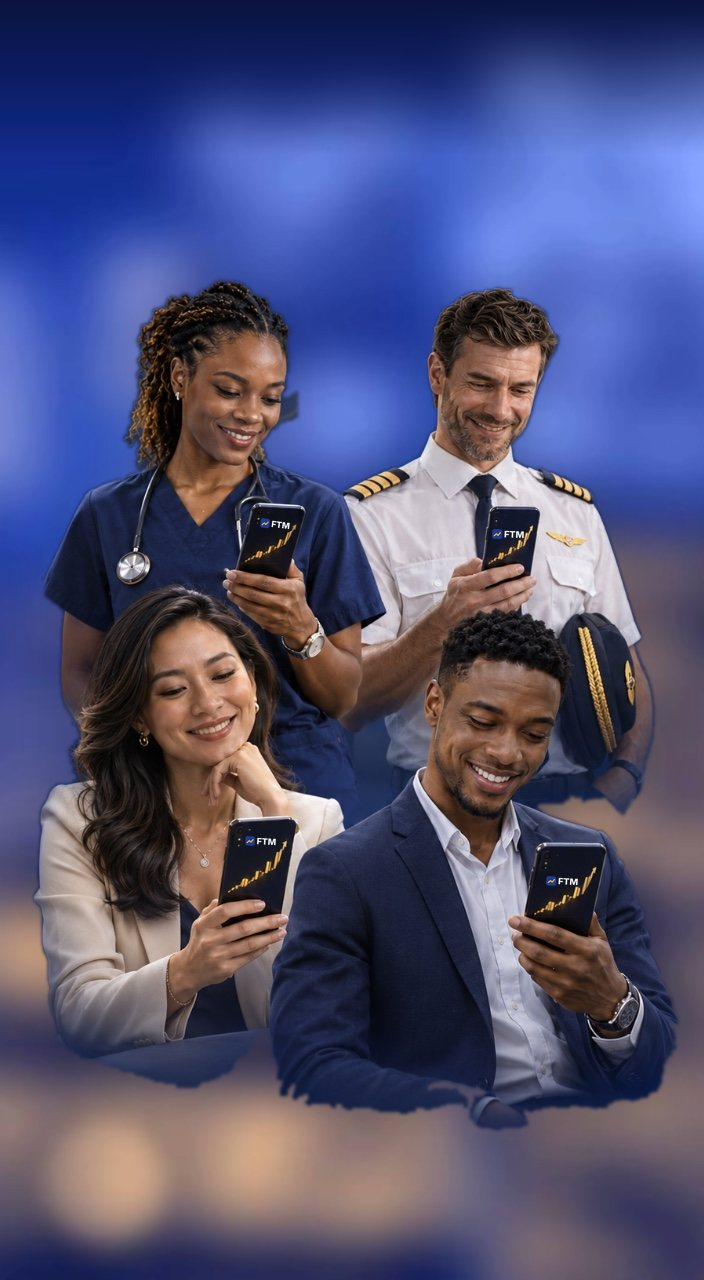
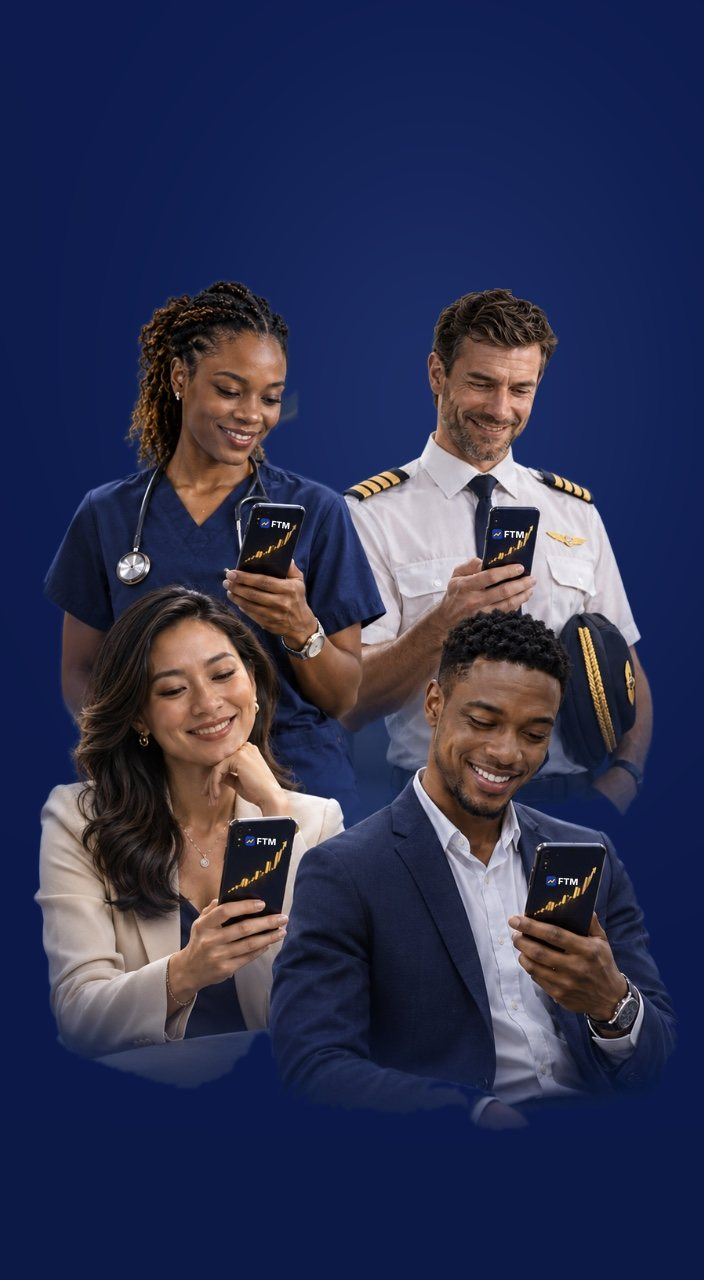
Hero: remove the city background and the grid squares; plain navy behind the people
Claude-Session: https://claude.ai/code/session_015ASeiR4KkcEsuYPMxYb7QY

diff --git a/index.html b/index.html
@@ -1798,6 +1798,7 @@ html,body{max-width:100%;overflow-x:hidden}@supports (overflow:clip){html,body{o
   }
   @media (max-width:820px) and (prefers-reduced-motion:reduce){.hero-mini .hm-line{animation:none;stroke-dashoffset:0}}
   @media (max-width:820px){.hero-fx i:nth-child(6){left:70%!important}.hero-fx i:nth-child(7){left:78%!important}}
+  .hero-grid{display:none!important}
 </style>
 <script>window.va=window.va||function(){(window.vaq=window.vaq||[]).push(arguments)};</script>
 <script defer src="/_vercel/insights/script.js"></script>
@@ -2000,7 +2001,7 @@ html,body{max-width:100%;overflow-x:hidden}@supports (overflow:clip){html,body{o
 <main id="top">
 
 <section class="hero">
-  <div class="hero-bg"></div><picture class="hero-photo" aria-hidden="true"><source srcset="/hero-people.webp?v=4" type="image/webp"><img src="/hero-people.jpg?v=4" alt="" width="704" height="1280" fetchpriority="high" decoding="async"></picture><svg class="hero-people" viewBox="0 0 700 1000" preserveAspectRatio="xMidYMax slice" aria-hidden="true"><defs><radialGradient id="glow"><stop offset="0" stop-color="#fff" stop-opacity=".55"/><stop offset="1" stop-color="#fff" stop-opacity="0"/></radialGradient><linearGradient id="fade" x1="0" x2="1"><stop offset=".55" stop-color="#fff"/><stop offset="1" stop-color="#fff" stop-opacity="0"/></linearGradient><mask id="fadeMask"><rect width="700" height="1000" fill="url(#fade)"/></mask></defs><g mask="url(#fadeMask)"><g transform="translate(70 640) scale(1.0)"><path d="M-70 0 C-70 -70 -40 -95 0 -95 C40 -95 70 -70 70 0 Z" fill="#3B82F6"/><rect x="-14" y="-118" width="28" height="30" rx="8" fill="#5C3A21"/><ellipse cx="0" cy="-140" rx="34" ry="38" fill="#5C3A21"/><path d="M-34 -150 C-34 -190 34 -190 34 -150 C20 -168 -20 -168 -34 -150Z" fill="#d9b26f"/><path d="M-12 -126 Q0 -116 12 -126" stroke="#3a1f10" stroke-width="3" fill="none" stroke-linecap="round"/><path d="M-60 -40 Q-40 -80 -10 -70" stroke="#5C3A21" stroke-width="16" fill="none" stroke-linecap="round"/><path d="M60 -40 Q40 -80 10 -70" stroke="#5C3A21" stroke-width="16" fill="none" stroke-linecap="round"/><circle cx="0" cy="-80" r="60" fill="url(#glow)"/><rect x="-16" y="-96" width="32" height="50" rx="6" fill="#0B1440" stroke="#F5F3EE" stroke-width="2"/><rect x="-12" y="-90" width="24" height="38" rx="3" fill="#cfe3ff"/></g><g transform="translate(120 780) scale(1.1)"><path d="M-70 0 C-70 -70 -40 -95 0 -95 C40 -95 70 -70 70 0 Z" fill="#D4AF37"/><rect x="-14" y="-118" width="28" height="30" rx="8" fill="#8D5524"/><ellipse cx="0" cy="-140" rx="34" ry="38" fill="#8D5524"/><path d="M-34 -150 C-34 -190 34 -190 34 -150 C20 -168 -20 -168 -34 -150Z" fill="#d9b26f"/><path d="M-12 -126 Q0 -116 12 -126" stroke="#3a1f10" stroke-width="3" fill="none" stroke-linecap="round"/><path d="M-60 -40 Q-40 -80 -10 -70" stroke="#8D5524" stroke-width="16" fill="none" stroke-linecap="round"/><path d="M60 -40 Q40 -80 10 -70" stroke="#8D5524" stroke-width="16" fill="none" stroke-linecap="round"/><circle cx="0" cy="-80" r="60" fill="url(#glow)"/><rect x="-16" y="-96" width="32" height="50" rx="6" fill="#0B1440" stroke="#F5F3EE" stroke-width="2"/><rect x="-12" y="-90" width="24" height="38" rx="3" fill="#cfe3ff"/></g><g transform="translate(30 900) scale(1.3)"><path d="M-70 0 C-70 -70 -40 -95 0 -95 C40 -95 70 -70 70 0 Z" fill="#60A5FA"/><rect x="-14" y="-118" width="28" height="30" rx="8" fill="#8D5524"/><ellipse cx="0" cy="-140" rx="34" ry="38" fill="#8D5524"/><path d="M-36 -150 C-36 -185 36 -185 36 -150 L40 -100 L30 -100 L28 -140 L-28 -140 L-30 -100 L-40 -100Z" fill="#111"/><path d="M-12 -126 Q0 -116 12 -126" stroke="#3a1f10" stroke-width="3" fill="none" stroke-linecap="round"/><path d="M-60 -40 Q-40 -80 -10 -70" stroke="#8D5524" stroke-width="16" fill="none" stroke-linecap="round"/><path d="M60 -40 Q40 -80 10 -70" stroke="#8D5524" stroke-width="16" fill="none" stroke-linecap="round"/><circle cx="0" cy="-80" r="60" fill="url(#glow)"/><rect x="-16" y="-96" width="32" height="50" rx="6" fill="#0B1440" stroke="#F5F3EE" stroke-width="2"/><rect x="-12" y="-90" width="24" height="38" rx="3" fill="#cfe3ff"/></g><g transform="translate(240 950) scale(1.1)"><path d="M-70 0 C-70 -70 -40 -95 0 -95 C40 -95 70 -70 70 0 Z" fill="#60A5FA"/><rect x="-14" y="-118" width="28" height="30" rx="8" fill="#F1C27D"/><ellipse cx="0" cy="-140" rx="34" ry="38" fill="#F1C27D"/><path d="M-34 -150 C-34 -190 34 -190 34 -150 C20 -168 -20 -168 -34 -150Z" fill="#111"/><path d="M-12 -126 Q0 -116 12 -126" stroke="#3a1f10" stroke-width="3" fill="none" stroke-linecap="round"/><path d="M-60 -40 Q-40 -80 -10 -70" stroke="#F1C27D" stroke-width="16" fill="none" stroke-linecap="round"/><path d="M60 -40 Q40 -80 10 -70" stroke="#F1C27D" stroke-width="16" fill="none" stroke-linecap="round"/><circle cx="0" cy="-80" r="60" fill="url(#glow)"/><rect x="-16" y="-96" width="32" height="50" rx="6" fill="#0B1440" stroke="#F5F3EE" stroke-width="2"/><rect x="-12" y="-90" width="24" height="38" rx="3" fill="#cfe3ff"/></g><g class="algo"><line x1="531" y1="366" x2="538" y2="311" stroke="#F5F3EE" stroke-width="1.2"/><line x1="531" y1="366" x2="562" y2="323" stroke="#F5F3EE" stroke-width="1.2"/><line x1="531" y1="366" x2="622" y2="394" stroke="#F5F3EE" stroke-width="1.2"/><line x1="531" y1="366" x2="528" y2="235" stroke="#F5F3EE" stroke-width="1.2"/><line x1="531" y1="366" x2="575" y2="494" stroke="#F5F3EE" stroke-width="1.2"/><line x1="531" y1="366" x2="655" y2="404" stroke="#F5F3EE" stroke-width="1.2"/><line x1="531" y1="366" x2="502" y2="311" stroke="#F5F3EE" stroke-width="1.2"/><line x1="531" y1="366" x2="634" y2="458" stroke="#F5F3EE" stroke-width="1.2"/><line x1="531" y1="366" x2="615" y2="412" stroke="#F5F3EE" stroke-width="1.2"/><line x1="538" y1="311" x2="600" y2="177" stroke="#F5F3EE" stroke-width="1.2"/><line x1="538" y1="311" x2="562" y2="323" stroke="#F5F3EE" stroke-width="1.2"/><line x1="538" y1="311" x2="622" y2="394" stroke="#F5F3EE" stroke-width="1.2"/><line x1="538" y1="311" x2="528" y2="235" stroke="#F5F3EE" stroke-width="1.2"/><line x1="538" y1="311" x2="655" y2="404" stroke="#F5F3EE" stroke-width="1.2"/><line x1="538" y1="311" x2="502" y2="311" stroke="#F5F3EE" stroke-width="1.2"/><line x1="538" y1="311" x2="615" y2="412" stroke="#F5F3EE" stroke-width="1.2"/><line x1="560" y1="517" x2="622" y2="394" stroke="#F5F3EE" stroke-width="1.2"/><line x1="560" y1="517" x2="575" y2="494" stroke="#F5F3EE" stroke-width="1.2"/><line x1="560" y1="517" x2="655" y2="404" stroke="#F5F3EE" stroke-width="1.2"/><line x1="560" y1="517" x2="634" y2="458" stroke="#F5F3EE" stroke-width="1.2"/><line x1="560" y1="517" x2="615" y2="412" stroke="#F5F3EE" stroke-width="1.2"/><line x1="600" y1="177" x2="528" y2="235" stroke="#F5F3EE" stroke-width="1.2"/><line x1="600" y1="177" x2="570" y2="112" stroke="#F5F3EE" stroke-width="1.2"/><line x1="600" y1="177" x2="607" y2="95" stroke="#F5F3EE" stroke-width="1.2"/><line x1="394" y1="491" x2="321" y2="384" stroke="#F5F3EE" stroke-width="1.2"/><line x1="394" y1="491" x2="380" y2="399" stroke="#F5F3EE" stroke-width="1.2"/><line x1="394" y1="491" x2="307" y2="505" stroke="#F5F3EE" stroke-width="1.2"/><line x1="562" y1="323" x2="622" y2="394" stroke="#F5F3EE" stroke-width="1.2"/><line x1="562" y1="323" x2="528" y2="235" stroke="#F5F3EE" stroke-width="1.2"/><line x1="562" y1="323" x2="655" y2="404" stroke="#F5F3EE" stroke-width="1.2"/><line x1="562" y1="323" x2="502" y2="311" stroke="#F5F3EE" stroke-width="1.2"/><line x1="562" y1="323" x2="615" y2="412" stroke="#F5F3EE" stroke-width="1.2"/><line x1="622" y1="394" x2="575" y2="494" stroke="#F5F3EE" stroke-width="1.2"/><line x1="622" y1="394" x2="655" y2="404" stroke="#F5F3EE" stroke-width="1.2"/><line x1="622" y1="394" x2="502" y2="311" stroke="#F5F3EE" stroke-width="1.2"/><line x1="622" y1="394" x2="634" y2="458" stroke="#F5F3EE" stroke-width="1.2"/><line x1="622" y1="394" x2="615" y2="412" stroke="#F5F3EE" stroke-width="1.2"/><line x1="395" y1="128" x2="372" y2="126" stroke="#F5F3EE" stroke-width="1.2"/><line x1="395" y1="128" x2="330" y2="98" stroke="#F5F3EE" stroke-width="1.2"/><line x1="395" y1="128" x2="397" y2="203" stroke="#F5F3EE" stroke-width="1.2"/><line x1="528" y1="235" x2="502" y2="311" stroke="#F5F3EE" stroke-width="1.2"/><line x1="528" y1="235" x2="570" y2="112" stroke="#F5F3EE" stroke-width="1.2"/><line x1="528" y1="235" x2="397" y2="203" stroke="#F5F3EE" stroke-width="1.2"/><line x1="372" y1="126" x2="330" y2="98" stroke="#F5F3EE" stroke-width="1.2"/><line x1="372" y1="126" x2="397" y2="203" stroke="#F5F3EE" stroke-width="1.2"/><line x1="575" y1="494" x2="655" y2="404" stroke="#F5F3EE" stroke-width="1.2"/><line x1="575" y1="494" x2="634" y2="458" stroke="#F5F3EE" stroke-width="1.2"/><line x1="575" y1="494" x2="615" y2="412" stroke="#F5F3EE" stroke-width="1.2"/><line x1="655" y1="404" x2="634" y2="458" stroke="#F5F3EE" stroke-width="1.2"/><line x1="655" y1="404" x2="615" y2="412" stroke="#F5F3EE" stroke-width="1.2"/><line x1="321" y1="384" x2="380" y2="399" stroke="#F5F3EE" stroke-width="1.2"/><line x1="321" y1="384" x2="307" y2="505" stroke="#F5F3EE" stroke-width="1.2"/><line x1="634" y1="458" x2="615" y2="412" stroke="#F5F3EE" stroke-width="1.2"/><line x1="380" y1="399" x2="307" y2="505" stroke="#F5F3EE" stroke-width="1.2"/><line x1="570" y1="112" x2="607" y2="95" stroke="#F5F3EE" stroke-width="1.2"/><line x1="330" y1="98" x2="397" y2="203" stroke="#F5F3EE" stroke-width="1.2"/><circle cx="531" cy="366" r="5" fill="#60A5FA"/><circle cx="538" cy="311" r="5" fill="#F5F3EE"/><circle cx="560" cy="517" r="7" fill="#F5F3EE"/><circle cx="600" cy="177" r="7" fill="#60A5FA"/><circle cx="394" cy="491" r="5" fill="#D4AF37"/><circle cx="562" cy="323" r="7" fill="#D4AF37"/><circle cx="622" cy="394" r="5" fill="#60A5FA"/><circle cx="395" cy="128" r="5" fill="#D4AF37"/><circle cx="528" cy="235" r="7" fill="#60A5FA"/><circle cx="372" cy="126" r="5" fill="#F5F3EE"/><circle cx="575" cy="494" r="7" fill="#60A5FA"/><circle cx="655" cy="404" r="4" fill="#D4AF37"/><circle cx="321" cy="384" r="7" fill="#D4AF37"/><circle cx="502" cy="311" r="5" fill="#D4AF37"/><circle cx="634" cy="458" r="5" fill="#2fa66b"/><circle cx="615" cy="412" r="4" fill="#D4AF37"/><circle cx="380" cy="399" r="7" fill="#D4AF37"/><circle cx="307" cy="505" r="4" fill="#F5F3EE"/><circle cx="570" cy="112" r="4" fill="#2fa66b"/><circle cx="330" cy="98" r="5" fill="#2fa66b"/><circle cx="397" cy="203" r="5" fill="#D4AF37"/><circle cx="607" cy="95" r="7" fill="#F5F3EE"/><text x="380" y="560" font-family="ui-monospace,Menlo,monospace" font-size="15" fill="#D4AF37" opacity="0.9">for setup in setups:</text><text x="380" y="586" font-family="ui-monospace,Menlo,monospace" font-size="15" fill="#F5F3EE" opacity="0.7">def execute(order):</text><text x="340" y="612" font-family="ui-monospace,Menlo,monospace" font-size="15" fill="#F5F3EE" opacity="0.5">def execute(order):</text><text x="300" y="638" font-family="ui-monospace,Menlo,monospace" font-size="15" fill="#F5F3EE" opacity="0.7">await broker.send()</text><text x="340" y="664" font-family="ui-monospace,Menlo,monospace" font-size="15" fill="#60A5FA" opacity="0.5">tp = entry + atr*3</text><text x="420" y="690" font-family="ui-monospace,Menlo,monospace" font-size="15" fill="#60A5FA" opacity="0.9">while market.open:</text><text x="420" y="716" font-family="ui-monospace,Menlo,monospace" font-size="15" fill="#60A5FA" opacity="0.7">def execute(order):</text><text x="420" y="742" font-family="ui-monospace,Menlo,monospace" font-size="15" fill="#D4AF37" opacity="0.9">if price &gt; ema200:</text><text x="380" y="768" font-family="ui-monospace,Menlo,monospace" font-size="15" fill="#60A5FA" opacity="0.7">if price &gt; ema200:</text><text x="340" y="794" font-family="ui-monospace,Menlo,monospace" font-size="15" fill="#F5F3EE" opacity="0.7">def execute(order):</text><text x="300" y="820" font-family="ui-monospace,Menlo,monospace" font-size="15" fill="#F5F3EE" opacity="0.9">if rsi &lt; 30 and trend:</text><text x="380" y="846" font-family="ui-monospace,Menlo,monospace" font-size="15" fill="#F5F3EE" opacity="0.5">drawdown &lt; 15%</text><text x="380" y="872" font-family="ui-monospace,Menlo,monospace" font-size="15" fill="#D4AF37" opacity="0.9">risk = 0.5%</text><text x="300" y="898" font-family="ui-monospace,Menlo,monospace" font-size="15" fill="#F5F3EE" opacity="0.5">01001101 01010100</text><text x="300" y="924" font-family="ui-monospace,Menlo,monospace" font-size="15" fill="#60A5FA" opacity="0.7">position.size = eq*r</text><text x="420" y="950" font-family="ui-monospace,Menlo,monospace" font-size="15" fill="#F5F3EE" opacity="0.5">await broker.send()</text><g stroke="#F5F3EE" stroke-width="1.5" fill="none"><rect x="560" y="560" width="110" height="34" rx="8"/><rect x="560" y="640" width="110" height="34" rx="8"/><rect x="560" y="720" width="110" height="34" rx="8"/><path d="M615 594v46M615 674v46" marker-end="none"/><path d="M609 634l6 6 6-6M609 714l6 6 6-6"/></g><g font-family="Inter,sans-serif" font-size="12" fill="#F5F3EE" text-anchor="middle"><text x="615" y="582">scan markets</text><text x="615" y="662">check rules</text><text x="615" y="742">execute</text></g><rect x="310" y="916" width="8" height="36" fill="#2fa66b"/><rect x="336" y="904" width="8" height="37" fill="#2fa66b"/><rect x="362" y="889" width="8" height="30" fill="#E5323E"/><rect x="388" y="894" width="8" height="39" fill="#2fa66b"/><rect x="414" y="892" width="8" height="33" fill="#2fa66b"/><rect x="440" y="920" width="8" height="33" fill="#2fa66b"/><rect x="466" y="940" width="8" height="31" fill="#E5323E"/><rect x="492" y="910" width="8" height="38" fill="#2fa66b"/><rect x="518" y="883" width="8" height="23" fill="#2fa66b"/><rect x="544" y="882" width="8" height="13" fill="#E5323E"/><rect x="570" y="927" width="8" height="17" fill="#E5323E"/><rect x="596" y="906" width="8" height="18" fill="#E5323E"/><rect x="622" y="913" width="8" height="19" fill="#2fa66b"/><rect x="648" y="926" width="8" height="39" fill="#2fa66b"/></g></g></svg>
+  <div class="hero-bg"></div><picture class="hero-photo" aria-hidden="true"><source srcset="/hero-people.webp?v=5" type="image/webp"><img src="/hero-people.jpg?v=5" alt="" width="704" height="1280" fetchpriority="high" decoding="async"></picture><svg class="hero-people" viewBox="0 0 700 1000" preserveAspectRatio="xMidYMax slice" aria-hidden="true"><defs><radialGradient id="glow"><stop offset="0" stop-color="#fff" stop-opacity=".55"/><stop offset="1" stop-color="#fff" stop-opacity="0"/></radialGradient><linearGradient id="fade" x1="0" x2="1"><stop offset=".55" stop-color="#fff"/><stop offset="1" stop-color="#fff" stop-opacity="0"/></linearGradient><mask id="fadeMask"><rect width="700" height="1000" fill="url(#fade)"/></mask></defs><g mask="url(#fadeMask)"><g transform="translate(70 640) scale(1.0)"><path d="M-70 0 C-70 -70 -40 -95 0 -95 C40 -95 70 -70 70 0 Z" fill="#3B82F6"/><rect x="-14" y="-118" width="28" height="30" rx="8" fill="#5C3A21"/><ellipse cx="0" cy="-140" rx="34" ry="38" fill="#5C3A21"/><path d="M-34 -150 C-34 -190 34 -190 34 -150 C20 -168 -20 -168 -34 -150Z" fill="#d9b26f"/><path d="M-12 -126 Q0 -116 12 -126" stroke="#3a1f10" stroke-width="3" fill="none" stroke-linecap="round"/><path d="M-60 -40 Q-40 -80 -10 -70" stroke="#5C3A21" stroke-width="16" fill="none" stroke-linecap="round"/><path d="M60 -40 Q40 -80 10 -70" stroke="#5C3A21" stroke-width="16" fill="none" stroke-linecap="round"/><circle cx="0" cy="-80" r="60" fill="url(#glow)"/><rect x="-16" y="-96" width="32" height="50" rx="6" fill="#0B1440" stroke="#F5F3EE" stroke-width="2"/><rect x="-12" y="-90" width="24" height="38" rx="3" fill="#cfe3ff"/></g><g transform="translate(120 780) scale(1.1)"><path d="M-70 0 C-70 -70 -40 -95 0 -95 C40 -95 70 -70 70 0 Z" fill="#D4AF37"/><rect x="-14" y="-118" width="28" height="30" rx="8" fill="#8D5524"/><ellipse cx="0" cy="-140" rx="34" ry="38" fill="#8D5524"/><path d="M-34 -150 C-34 -190 34 -190 34 -150 C20 -168 -20 -168 -34 -150Z" fill="#d9b26f"/><path d="M-12 -126 Q0 -116 12 -126" stroke="#3a1f10" stroke-width="3" fill="none" stroke-linecap="round"/><path d="M-60 -40 Q-40 -80 -10 -70" stroke="#8D5524" stroke-width="16" fill="none" stroke-linecap="round"/><path d="M60 -40 Q40 -80 10 -70" stroke="#8D5524" stroke-width="16" fill="none" stroke-linecap="round"/><circle cx="0" cy="-80" r="60" fill="url(#glow)"/><rect x="-16" y="-96" width="32" height="50" rx="6" fill="#0B1440" stroke="#F5F3EE" stroke-width="2"/><rect x="-12" y="-90" width="24" height="38" rx="3" fill="#cfe3ff"/></g><g transform="translate(30 900) scale(1.3)"><path d="M-70 0 C-70 -70 -40 -95 0 -95 C40 -95 70 -70 70 0 Z" fill="#60A5FA"/><rect x="-14" y="-118" width="28" height="30" rx="8" fill="#8D5524"/><ellipse cx="0" cy="-140" rx="34" ry="38" fill="#8D5524"/><path d="M-36 -150 C-36 -185 36 -185 36 -150 L40 -100 L30 -100 L28 -140 L-28 -140 L-30 -100 L-40 -100Z" fill="#111"/><path d="M-12 -126 Q0 -116 12 -126" stroke="#3a1f10" stroke-width="3" fill="none" stroke-linecap="round"/><path d="M-60 -40 Q-40 -80 -10 -70" stroke="#8D5524" stroke-width="16" fill="none" stroke-linecap="round"/><path d="M60 -40 Q40 -80 10 -70" stroke="#8D5524" stroke-width="16" fill="none" stroke-linecap="round"/><circle cx="0" cy="-80" r="60" fill="url(#glow)"/><rect x="-16" y="-96" width="32" height="50" rx="6" fill="#0B1440" stroke="#F5F3EE" stroke-width="2"/><rect x="-12" y="-90" width="24" height="38" rx="3" fill="#cfe3ff"/></g><g transform="translate(240 950) scale(1.1)"><path d="M-70 0 C-70 -70 -40 -95 0 -95 C40 -95 70 -70 70 0 Z" fill="#60A5FA"/><rect x="-14" y="-118" width="28" height="30" rx="8" fill="#F1C27D"/><ellipse cx="0" cy="-140" rx="34" ry="38" fill="#F1C27D"/><path d="M-34 -150 C-34 -190 34 -190 34 -150 C20 -168 -20 -168 -34 -150Z" fill="#111"/><path d="M-12 -126 Q0 -116 12 -126" stroke="#3a1f10" stroke-width="3" fill="none" stroke-linecap="round"/><path d="M-60 -40 Q-40 -80 -10 -70" stroke="#F1C27D" stroke-width="16" fill="none" stroke-linecap="round"/><path d="M60 -40 Q40 -80 10 -70" stroke="#F1C27D" stroke-width="16" fill="none" stroke-linecap="round"/><circle cx="0" cy="-80" r="60" fill="url(#glow)"/><rect x="-16" y="-96" width="32" height="50" rx="6" fill="#0B1440" stroke="#F5F3EE" stroke-width="2"/><rect x="-12" y="-90" width="24" height="38" rx="3" fill="#cfe3ff"/></g><g class="algo"><line x1="531" y1="366" x2="538" y2="311" stroke="#F5F3EE" stroke-width="1.2"/><line x1="531" y1="366" x2="562" y2="323" stroke="#F5F3EE" stroke-width="1.2"/><line x1="531" y1="366" x2="622" y2="394" stroke="#F5F3EE" stroke-width="1.2"/><line x1="531" y1="366" x2="528" y2="235" stroke="#F5F3EE" stroke-width="1.2"/><line x1="531" y1="366" x2="575" y2="494" stroke="#F5F3EE" stroke-width="1.2"/><line x1="531" y1="366" x2="655" y2="404" stroke="#F5F3EE" stroke-width="1.2"/><line x1="531" y1="366" x2="502" y2="311" stroke="#F5F3EE" stroke-width="1.2"/><line x1="531" y1="366" x2="634" y2="458" stroke="#F5F3EE" stroke-width="1.2"/><line x1="531" y1="366" x2="615" y2="412" stroke="#F5F3EE" stroke-width="1.2"/><line x1="538" y1="311" x2="600" y2="177" stroke="#F5F3EE" stroke-width="1.2"/><line x1="538" y1="311" x2="562" y2="323" stroke="#F5F3EE" stroke-width="1.2"/><line x1="538" y1="311" x2="622" y2="394" stroke="#F5F3EE" stroke-width="1.2"/><line x1="538" y1="311" x2="528" y2="235" stroke="#F5F3EE" stroke-width="1.2"/><line x1="538" y1="311" x2="655" y2="404" stroke="#F5F3EE" stroke-width="1.2"/><line x1="538" y1="311" x2="502" y2="311" stroke="#F5F3EE" stroke-width="1.2"/><line x1="538" y1="311" x2="615" y2="412" stroke="#F5F3EE" stroke-width="1.2"/><line x1="560" y1="517" x2="622" y2="394" stroke="#F5F3EE" stroke-width="1.2"/><line x1="560" y1="517" x2="575" y2="494" stroke="#F5F3EE" stroke-width="1.2"/><line x1="560" y1="517" x2="655" y2="404" stroke="#F5F3EE" stroke-width="1.2"/><line x1="560" y1="517" x2="634" y2="458" stroke="#F5F3EE" stroke-width="1.2"/><line x1="560" y1="517" x2="615" y2="412" stroke="#F5F3EE" stroke-width="1.2"/><line x1="600" y1="177" x2="528" y2="235" stroke="#F5F3EE" stroke-width="1.2"/><line x1="600" y1="177" x2="570" y2="112" stroke="#F5F3EE" stroke-width="1.2"/><line x1="600" y1="177" x2="607" y2="95" stroke="#F5F3EE" stroke-width="1.2"/><line x1="394" y1="491" x2="321" y2="384" stroke="#F5F3EE" stroke-width="1.2"/><line x1="394" y1="491" x2="380" y2="399" stroke="#F5F3EE" stroke-width="1.2"/><line x1="394" y1="491" x2="307" y2="505" stroke="#F5F3EE" stroke-width="1.2"/><line x1="562" y1="323" x2="622" y2="394" stroke="#F5F3EE" stroke-width="1.2"/><line x1="562" y1="323" x2="528" y2="235" stroke="#F5F3EE" stroke-width="1.2"/><line x1="562" y1="323" x2="655" y2="404" stroke="#F5F3EE" stroke-width="1.2"/><line x1="562" y1="323" x2="502" y2="311" stroke="#F5F3EE" stroke-width="1.2"/><line x1="562" y1="323" x2="615" y2="412" stroke="#F5F3EE" stroke-width="1.2"/><line x1="622" y1="394" x2="575" y2="494" stroke="#F5F3EE" stroke-width="1.2"/><line x1="622" y1="394" x2="655" y2="404" stroke="#F5F3EE" stroke-width="1.2"/><line x1="622" y1="394" x2="502" y2="311" stroke="#F5F3EE" stroke-width="1.2"/><line x1="622" y1="394" x2="634" y2="458" stroke="#F5F3EE" stroke-width="1.2"/><line x1="622" y1="394" x2="615" y2="412" stroke="#F5F3EE" stroke-width="1.2"/><line x1="395" y1="128" x2="372" y2="126" stroke="#F5F3EE" stroke-width="1.2"/><line x1="395" y1="128" x2="330" y2="98" stroke="#F5F3EE" stroke-width="1.2"/><line x1="395" y1="128" x2="397" y2="203" stroke="#F5F3EE" stroke-width="1.2"/><line x1="528" y1="235" x2="502" y2="311" stroke="#F5F3EE" stroke-width="1.2"/><line x1="528" y1="235" x2="570" y2="112" stroke="#F5F3EE" stroke-width="1.2"/><line x1="528" y1="235" x2="397" y2="203" stroke="#F5F3EE" stroke-width="1.2"/><line x1="372" y1="126" x2="330" y2="98" stroke="#F5F3EE" stroke-width="1.2"/><line x1="372" y1="126" x2="397" y2="203" stroke="#F5F3EE" stroke-width="1.2"/><line x1="575" y1="494" x2="655" y2="404" stroke="#F5F3EE" stroke-width="1.2"/><line x1="575" y1="494" x2="634" y2="458" stroke="#F5F3EE" stroke-width="1.2"/><line x1="575" y1="494" x2="615" y2="412" stroke="#F5F3EE" stroke-width="1.2"/><line x1="655" y1="404" x2="634" y2="458" stroke="#F5F3EE" stroke-width="1.2"/><line x1="655" y1="404" x2="615" y2="412" stroke="#F5F3EE" stroke-width="1.2"/><line x1="321" y1="384" x2="380" y2="399" stroke="#F5F3EE" stroke-width="1.2"/><line x1="321" y1="384" x2="307" y2="505" stroke="#F5F3EE" stroke-width="1.2"/><line x1="634" y1="458" x2="615" y2="412" stroke="#F5F3EE" stroke-width="1.2"/><line x1="380" y1="399" x2="307" y2="505" stroke="#F5F3EE" stroke-width="1.2"/><line x1="570" y1="112" x2="607" y2="95" stroke="#F5F3EE" stroke-width="1.2"/><line x1="330" y1="98" x2="397" y2="203" stroke="#F5F3EE" stroke-width="1.2"/><circle cx="531" cy="366" r="5" fill="#60A5FA"/><circle cx="538" cy="311" r="5" fill="#F5F3EE"/><circle cx="560" cy="517" r="7" fill="#F5F3EE"/><circle cx="600" cy="177" r="7" fill="#60A5FA"/><circle cx="394" cy="491" r="5" fill="#D4AF37"/><circle cx="562" cy="323" r="7" fill="#D4AF37"/><circle cx="622" cy="394" r="5" fill="#60A5FA"/><circle cx="395" cy="128" r="5" fill="#D4AF37"/><circle cx="528" cy="235" r="7" fill="#60A5FA"/><circle cx="372" cy="126" r="5" fill="#F5F3EE"/><circle cx="575" cy="494" r="7" fill="#60A5FA"/><circle cx="655" cy="404" r="4" fill="#D4AF37"/><circle cx="321" cy="384" r="7" fill="#D4AF37"/><circle cx="502" cy="311" r="5" fill="#D4AF37"/><circle cx="634" cy="458" r="5" fill="#2fa66b"/><circle cx="615" cy="412" r="4" fill="#D4AF37"/><circle cx="380" cy="399" r="7" fill="#D4AF37"/><circle cx="307" cy="505" r="4" fill="#F5F3EE"/><circle cx="570" cy="112" r="4" fill="#2fa66b"/><circle cx="330" cy="98" r="5" fill="#2fa66b"/><circle cx="397" cy="203" r="5" fill="#D4AF37"/><circle cx="607" cy="95" r="7" fill="#F5F3EE"/><text x="380" y="560" font-family="ui-monospace,Menlo,monospace" font-size="15" fill="#D4AF37" opacity="0.9">for setup in setups:</text><text x="380" y="586" font-family="ui-monospace,Menlo,monospace" font-size="15" fill="#F5F3EE" opacity="0.7">def execute(order):</text><text x="340" y="612" font-family="ui-monospace,Menlo,monospace" font-size="15" fill="#F5F3EE" opacity="0.5">def execute(order):</text><text x="300" y="638" font-family="ui-monospace,Menlo,monospace" font-size="15" fill="#F5F3EE" opacity="0.7">await broker.send()</text><text x="340" y="664" font-family="ui-monospace,Menlo,monospace" font-size="15" fill="#60A5FA" opacity="0.5">tp = entry + atr*3</text><text x="420" y="690" font-family="ui-monospace,Menlo,monospace" font-size="15" fill="#60A5FA" opacity="0.9">while market.open:</text><text x="420" y="716" font-family="ui-monospace,Menlo,monospace" font-size="15" fill="#60A5FA" opacity="0.7">def execute(order):</text><text x="420" y="742" font-family="ui-monospace,Menlo,monospace" font-size="15" fill="#D4AF37" opacity="0.9">if price &gt; ema200:</text><text x="380" y="768" font-family="ui-monospace,Menlo,monospace" font-size="15" fill="#60A5FA" opacity="0.7">if price &gt; ema200:</text><text x="340" y="794" font-family="ui-monospace,Menlo,monospace" font-size="15" fill="#F5F3EE" opacity="0.7">def execute(order):</text><text x="300" y="820" font-family="ui-monospace,Menlo,monospace" font-size="15" fill="#F5F3EE" opacity="0.9">if rsi &lt; 30 and trend:</text><text x="380" y="846" font-family="ui-monospace,Menlo,monospace" font-size="15" fill="#F5F3EE" opacity="0.5">drawdown &lt; 15%</text><text x="380" y="872" font-family="ui-monospace,Menlo,monospace" font-size="15" fill="#D4AF37" opacity="0.9">risk = 0.5%</text><text x="300" y="898" font-family="ui-monospace,Menlo,monospace" font-size="15" fill="#F5F3EE" opacity="0.5">01001101 01010100</text><text x="300" y="924" font-family="ui-monospace,Menlo,monospace" font-size="15" fill="#60A5FA" opacity="0.7">position.size = eq*r</text><text x="420" y="950" font-family="ui-monospace,Menlo,monospace" font-size="15" fill="#F5F3EE" opacity="0.5">await broker.send()</text><g stroke="#F5F3EE" stroke-width="1.5" fill="none"><rect x="560" y="560" width="110" height="34" rx="8"/><rect x="560" y="640" width="110" height="34" rx="8"/><rect x="560" y="720" width="110" height="34" rx="8"/><path d="M615 594v46M615 674v46" marker-end="none"/><path d="M609 634l6 6 6-6M609 714l6 6 6-6"/></g><g font-family="Inter,sans-serif" font-size="12" fill="#F5F3EE" text-anchor="middle"><text x="615" y="582">scan markets</text><text x="615" y="662">check rules</text><text x="615" y="742">execute</text></g><rect x="310" y="916" width="8" height="36" fill="#2fa66b"/><rect x="336" y="904" width="8" height="37" fill="#2fa66b"/><rect x="362" y="889" width="8" height="30" fill="#E5323E"/><rect x="388" y="894" width="8" height="39" fill="#2fa66b"/><rect x="414" y="892" width="8" height="33" fill="#2fa66b"/><rect x="440" y="920" width="8" height="33" fill="#2fa66b"/><rect x="466" y="940" width="8" height="31" fill="#E5323E"/><rect x="492" y="910" width="8" height="38" fill="#2fa66b"/><rect x="518" y="883" width="8" height="23" fill="#2fa66b"/><rect x="544" y="882" width="8" height="13" fill="#E5323E"/><rect x="570" y="927" width="8" height="17" fill="#E5323E"/><rect x="596" y="906" width="8" height="18" fill="#E5323E"/><rect x="622" y="913" width="8" height="19" fill="#2fa66b"/><rect x="648" y="926" width="8" height="39" fill="#2fa66b"/></g></g></svg>
 <div class="hero-grid"></div><div class="hero-fx" aria-hidden="true"><i style="left:8%;animation-delay:0s">XAUUSD ▲</i><i style="left:22%;animation-delay:-4s">BTCUSD ▲</i><i style="left:38%;animation-delay:-9s">+98,644%</i><i style="left:55%;animation-delay:-2s">NDX100 ▲</i><i style="left:68%;animation-delay:-12s">USDJPY ▲</i><i style="left:82%;animation-delay:-6s">BOOM1000 ▲</i><i style="left:92%;animation-delay:-14s">+3,658%</i></div>
   <svg class="hero-chart" viewBox="0 0 900 520" aria-hidden="true">
     <defs><linearGradient id="hg" x1="0" x2="0" y1="0" y2="1"><stop offset="0" stop-color="#D4AF37" stop-opacity=".45"/><stop offset="1" stop-color="#D4AF37" stop-opacity="0"/></linearGradient></defs>
